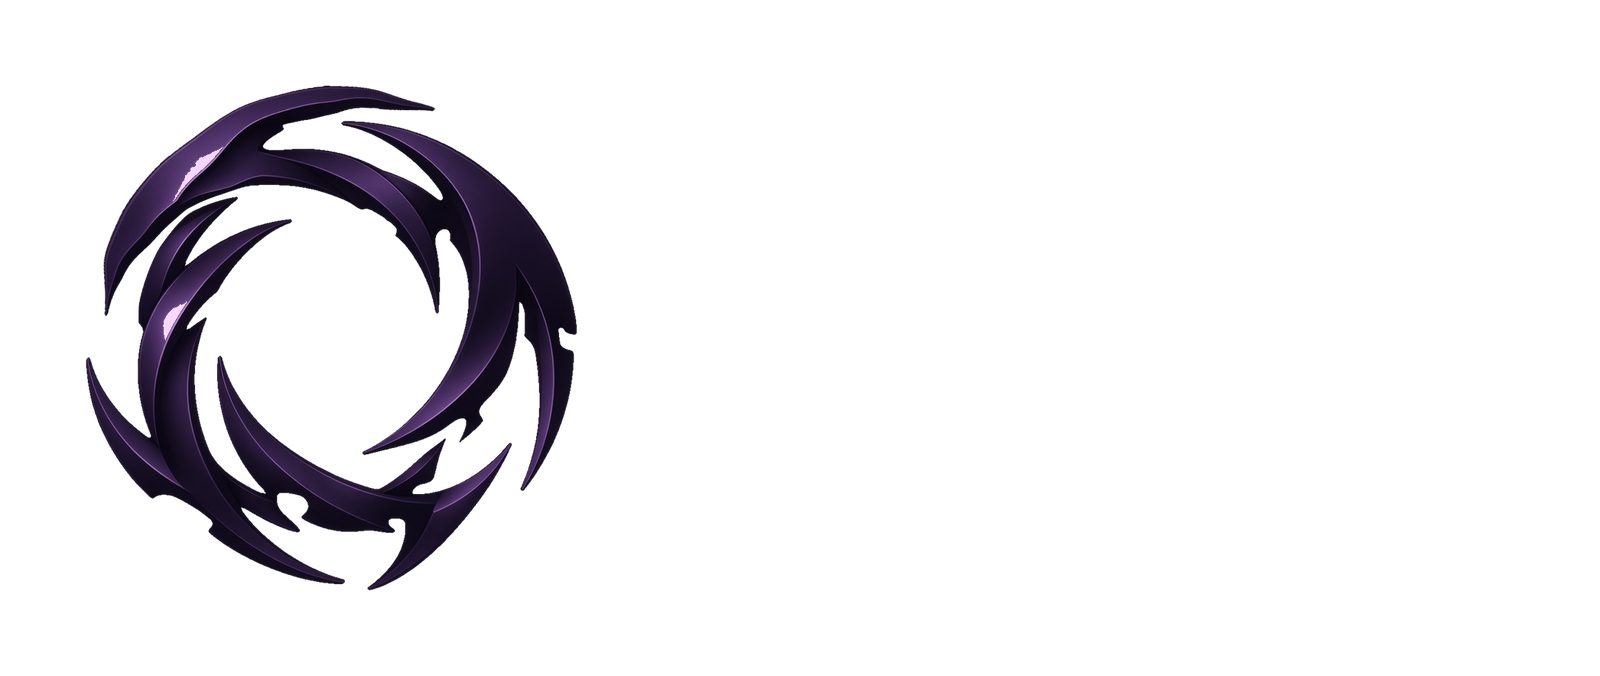
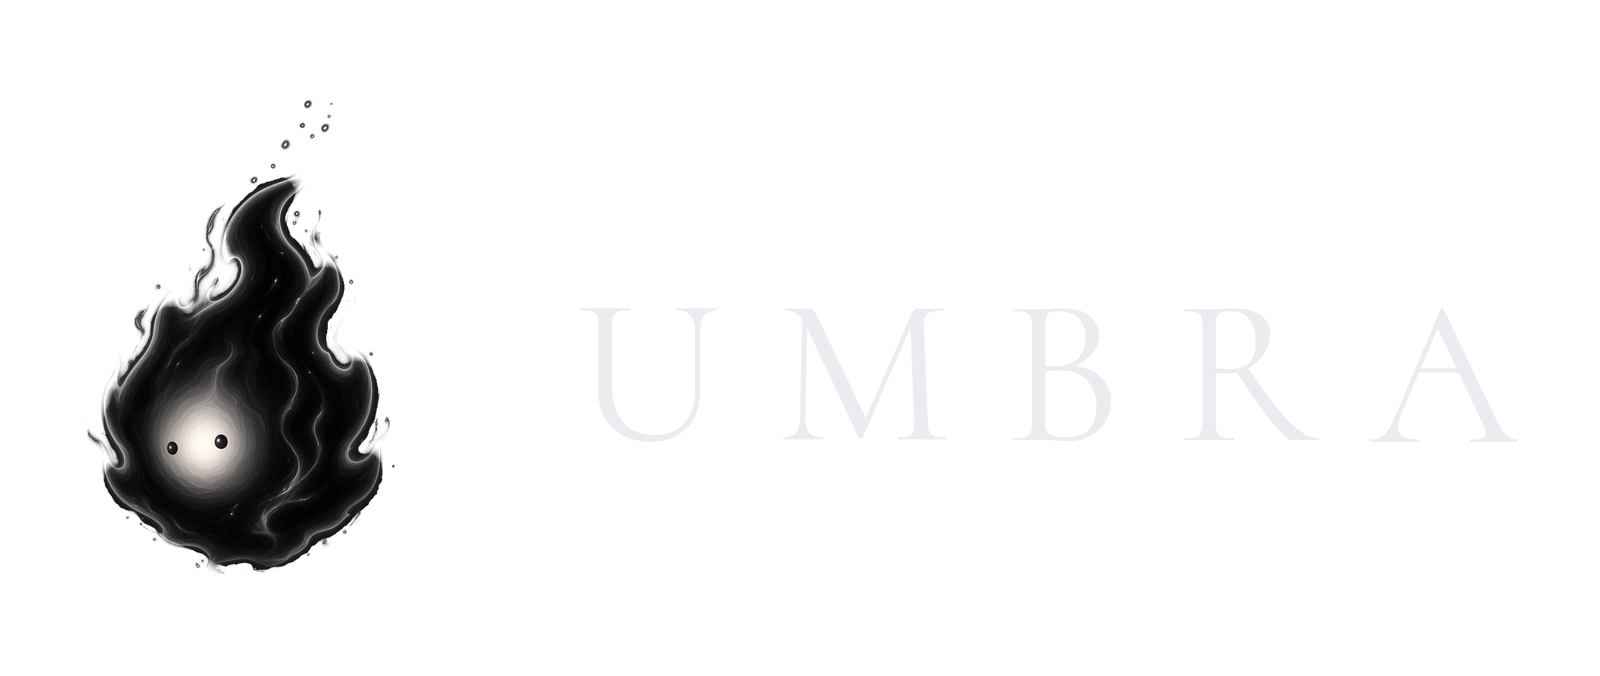
Suite: black-flame Umbra art, fish model names, chat boxes grow as you type
- New Umbra banner, cutout and icons; old purple swirl set kept in assets-archive/
- Friendly fish display names for Lumen/Umbra models (heavy ones tagged), Quicksketch/Masterpiece for Prism; add qwen2.5-coder:7b (Small Code Fish)
- Cache-bust brand cutouts (?v=2) and allow query strings in next/image
- Fix auto-grow in Umbra bot/team chat and keep buttons at the bottom of the box

Changed region(s): [[0.0312, 0.1243, 0.375, 0.8698]]

diff --git a/apps/suite/config/models.ts b/apps/suite/config/models.ts
@@ -2,13 +2,16 @@
 
 export const PAGE_MODELS = {
     chat: [
-        { id: 'gpt-oss:20b', name: 'GPT-OSS (20B)' },
-        { id: 'deepseek-r1:14b', name: 'DeepSeek R1 (14B)' },
-        { id: 'qwen3:14b', name: 'Qwen 3 (14B)' },
-        { id: 'qwen3.5:9b', name: 'Qwen 3.5 (9B)' },
-        { id: 'qwen2.5:7b-instruct', name: 'Qwen 2.5 7B Instruct' },
-        { id: 'llama3.1:8b', name: 'Llama 3.1 (8B)' },
-        { id: 'qwen3-coder:30b', name: 'Qwen 3 Coder (30B)' },
+        // Fun names say what each is for; "heavy" ones nearly fill (or overflow) the 16 GB card.
+        { id: 'qwen3:14b', name: 'Big Brain Fish: smart all-rounder' },
+        { id: 'qwen3.5:9b', name: 'Little Eyed Fish: quick, can see images' },
+        { id: 'qwen3:8b', name: 'Quick Chatter Fish: quick, a bit smarter' },
+        { id: 'llama3.1:8b', name: 'Little Chatter Fish: quick everyday chat' },
+        { id: 'qwen2.5:7b-instruct', name: 'Little Errand Fish: short, does exactly what you ask' },
+        { id: 'qwen2.5-coder:7b', name: 'Small Code Fish: quick code help' },
+        { id: 'deepseek-r1:14b', name: 'Big Puzzle Fish: thinks hard on logic and math' },
+        { id: 'gpt-oss:20b', name: 'Big City Task Fish: multi-step tasks (heavy)' },
+        { id: 'qwen3-coder:30b', name: 'Deep Sea Code Fish: best code (heavy, slow)' },
     ],
     images: [
     ],

diff --git a/apps/suite/config/umbra.ts b/apps/suite/config/umbra.ts
@@ -37,12 +37,13 @@ export const flameColor = (id: string) => FLAMES.find((f) => f.id === id)?.color
 // Local models a bot can use. All of them can use tools (needed from Stage 2 on).
 // The first one is the default for new bots.
 export const BOT_MODELS = [
-  { id: 'qwen3:14b', name: 'Qwen 3 14B: smart all-rounder' },
-  { id: 'qwen3.5:9b', name: 'Qwen 3.5 9B: faster, can see images' },
-  { id: 'gpt-oss:20b', name: 'GPT-OSS 20B: best at multi-step tasks' },
-  { id: 'qwen3:8b', name: 'Qwen 3 8B: quick and light' },
-  { id: 'llama3.1:8b', name: 'Llama 3.1 8B: quick and light' },
-  { id: 'qwen3-coder:30b', name: 'Qwen 3 Coder 30B: best for code (slower)' },
+  { id: 'qwen3:14b', name: 'Big Brain Fish: smart all-rounder' },
+  { id: 'qwen3.5:9b', name: 'Little Eyed Fish: quick, can see images' },
+  { id: 'qwen3:8b', name: 'Quick Chatter Fish: quick, a bit smarter' },
+  { id: 'llama3.1:8b', name: 'Little Chatter Fish: quick everyday chat' },
+  { id: 'qwen2.5-coder:7b', name: 'Small Code Fish: quick code help' },
+  { id: 'gpt-oss:20b', name: 'Big City Task Fish: multi-step tasks (heavy)' },
+  { id: 'qwen3-coder:30b', name: 'Deep Sea Code Fish: best code (heavy, slow)' },
 ] as const;
 
 export const isBotModel = (id: unknown): boolean => BOT_MODELS.some((m) => m.id === id);

diff --git a/apps/suite/components/AppBanner.tsx b/apps/suite/components/AppBanner.tsx
@@ -4,11 +4,14 @@ import { getApp } from '@/config/apps';
 
 // An app's symbol and name, floating in the top-right corner over the page. The picture is Art's
 // see-through cutout (public/brand/cutouts/<id>.png); tapping it opens that app's first page.
+// Bump when any cutout picture changes, so phones don't keep showing a cached old one.
+const BRAND_VERSION = '2';
+
 const AppBanner = ({ appId }: { appId: string }) => {
   const app = getApp(appId);
   return (
     <Link href={app.href} className="banner-corner" aria-label={`${app.name} home`} title={app.name}>
-      <Image src={`/brand/cutouts/${appId}.png`} alt="" width={1600} height={680} className="banner-cutout" priority />
+      <Image src={`/brand/cutouts/${appId}.png?v=${BRAND_VERSION}`} alt="" width={1600} height={680} className="banner-cutout" priority />
     </Link>
   );
 };

diff --git a/apps/suite/app/theme.css b/apps/suite/app/theme.css
@@ -76,16 +76,16 @@
 [data-theme='eclipse'] {
     --background-color: #000000;
     --text-color: #ffffff;
-    --primary-color: rgba(24, 26, 50, 0.244);
+    --primary-color: rgba(50, 24, 24, 0.244);
     --secondary-color: rgba(0, 0, 0, 0.753);
-    --grad-color-1: #1a1e41;
+    --grad-color-1: #3f0b0b;
     --grad-color-2: #050913;
     --accent-color: #0c1220;
-    --border-color: #242831;
+    --border-color: #312424;
     --edge-color: #030406;
     --chat-user: #c0cae6;
     --chat-assistant: #fcdfab;
-    --load: #3c3c7e;
+    --load: #7e3c3c;
     --placeholder: #3f414567;
     --border-radius: 10px;
     --box-shadow: 0 0 30px 2px rgb(7, 7, 7);

diff --git a/apps/suite/config/prism-models.ts b/apps/suite/config/prism-models.ts
@@ -26,10 +26,10 @@ export interface PrismModel {
 }
 
 export const PRISM_MODELS = [
-  { id: 'flux2-klein', name: 'FLUX.2 Klein', note: 'The quick one: it paints a picture in 4 steps.', expands: false, vramGB: 8 },
+  { id: 'flux2-klein', name: 'Quicksketch', note: 'The quick one: it paints a picture in 4 steps.', expands: false, vramGB: 8 },
   {
     id: 'flux3-klein',
-    name: 'FLUX.3 Klein',
+    name: 'Masterpiece',
     note: 'The newer one: it paints in 16 steps, so each picture takes longer.',
     expands: true,
     // A guess until it has run here: the painter plus two language models (one is the expander).

diff --git a/apps/suite/app/globals.css b/apps/suite/app/globals.css
@@ -2373,3 +2373,9 @@ header > :not(.header-spacer) { pointer-events: auto; }
 .umbra-send { top: auto; bottom: 0.25rem; transform: none; }
 .umbra-send:active { transform: scale(0.92); }
 /* #endregion */
+/* #region chat boxes grow with the text: buttons stay at the bottom, height changes instantly */
+textarea.input-field, .umbra-field > textarea { transition: border-color 0.2s ease, box-shadow 0.2s ease, background 0.2s ease; }
+.input-form { align-items: flex-end; }
+.input-form .send-button { top: auto; bottom: 0.5rem; transform: none; }
+.umbra-input { align-items: flex-end; }
+/* #endregion */

diff --git a/apps/suite/app/(apps)/umbra/_components/TeamChat.tsx b/apps/suite/app/(apps)/umbra/_components/TeamChat.tsx
@@ -59,7 +59,7 @@ export default function TeamChat({ teamId }: { teamId: string }) {
     const box = inputRef.current;
     if (!box) return;
     box.style.height = 'auto';
-    box.style.height = `px`;
+    box.style.height = `${Math.min(box.scrollHeight + box.offsetHeight - box.clientHeight, 160)}px`;
   }, [input]);
 
   // Enter adds a new line. Ctrl+Enter (Cmd+Enter on a Mac) sends, like the send button.

diff --git a/apps/suite/app/(apps)/umbra/_components/BotChat.tsx b/apps/suite/app/(apps)/umbra/_components/BotChat.tsx
@@ -60,7 +60,7 @@ export default function BotChat({ botId }: { botId: string }) {
     const box = inputRef.current;
     if (!box) return;
     box.style.height = 'auto';
-    box.style.height = `px`;
+    box.style.height = `${Math.min(box.scrollHeight + box.offsetHeight - box.clientHeight, 160)}px`;
   }, [input]);
 
   // Enter adds a new line. Ctrl+Enter (Cmd+Enter on a Mac) sends, like the send button.

diff --git a/apps/suite/app/(apps)/lumen/_components/ChatContent.tsx b/apps/suite/app/(apps)/lumen/_components/ChatContent.tsx
@@ -54,7 +54,7 @@ const Chat = () => {
     const box = inputRef.current;
     if (!box) return;
     box.style.height = 'auto';
-    box.style.height = `${Math.min(box.scrollHeight, 160)}px`;
+    box.style.height = `${Math.min(box.scrollHeight + box.offsetHeight - box.clientHeight, 160)}px`;
   }, [input]);
 
   // Enter adds a new line. Ctrl+Enter (Cmd+Enter on a Mac) sends, like the send button.

diff --git a/apps/suite/next.config.ts b/apps/suite/next.config.ts
@@ -9,6 +9,8 @@ const nextConfig: NextConfig = {
     'illumination.shrimp-bitterling.ts.net',
     '100.98.151.55',
   ],
+  // Local pictures may carry a ?v= version so phones fetch a fresh copy after artwork changes.
+  images: { localPatterns: [{ pathname: '/**' }] },
   cacheComponents: true,
   partialPrefetching: true,
   turbopack: {
